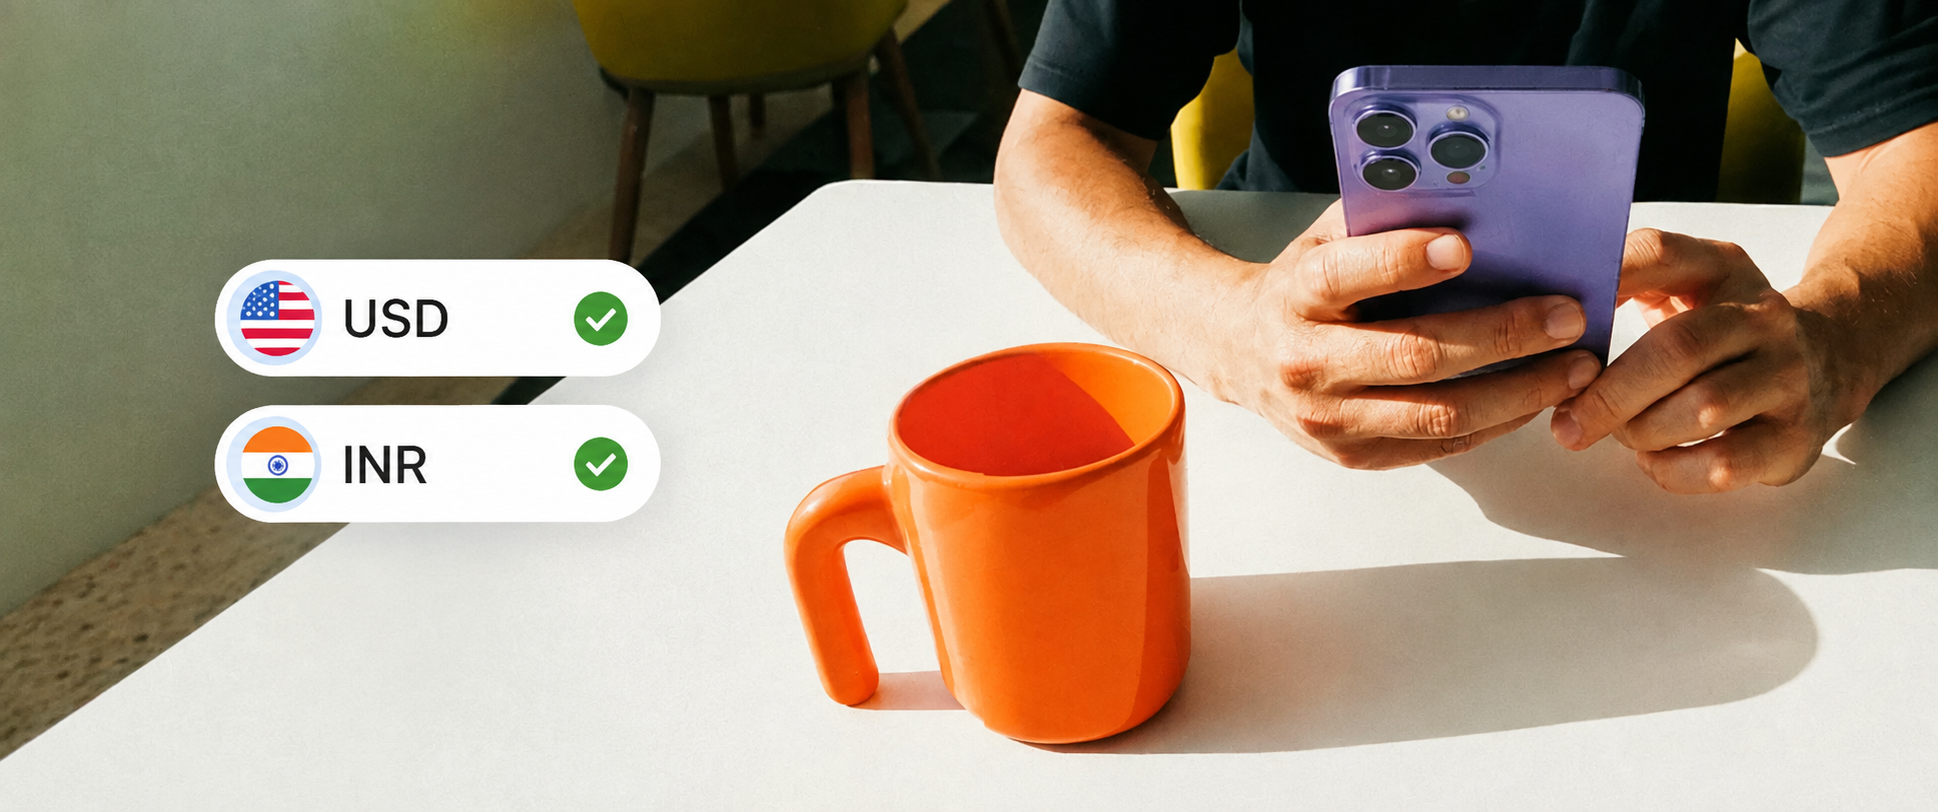
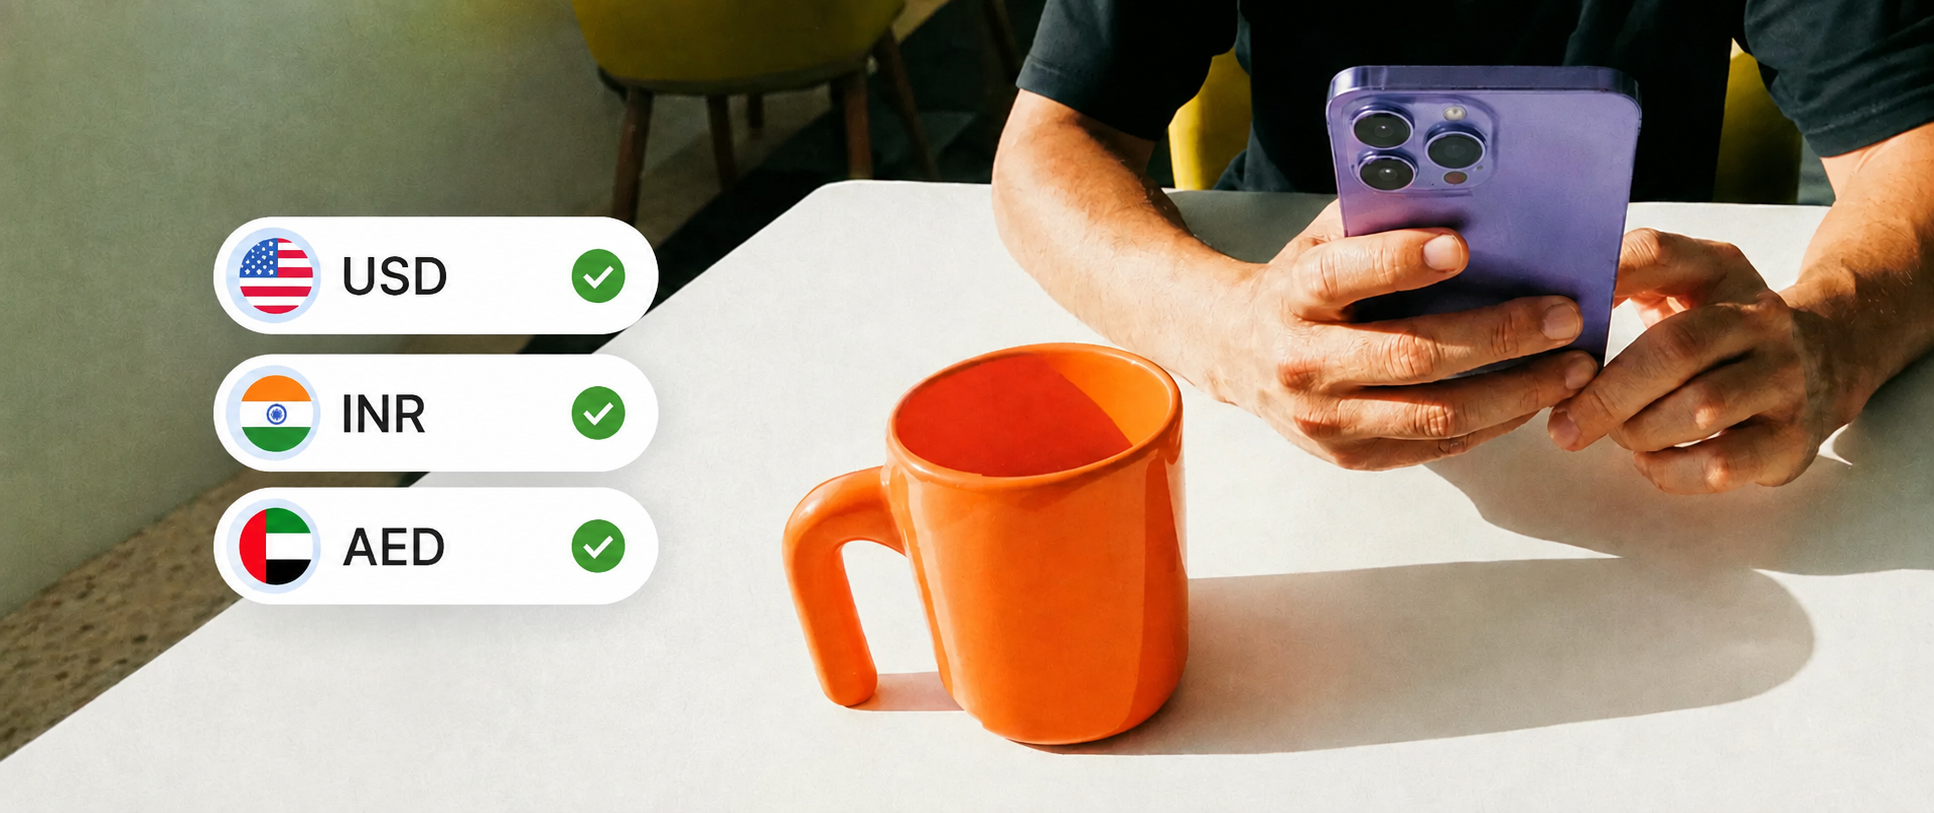
pricing page structure fix completion without responsiveness and content change

Changed region(s): [[0.0931, 0.2463, 0.3413, 0.7697]]

diff --git a/Client/src/landing_deel/components/Header.jsx b/Client/src/landing_deel/components/Header.jsx
@@ -3,6 +3,8 @@ import React, { useEffect, useRef, useState } from "react";
 const megaMenus = {
   Solutions: {
     featured: true,
+    disableOfferLinks: true,
+    disableUtilityLinks: true,
     offerTitle: "WHAT WE OFFER",
     offerItems: [
       {
@@ -173,6 +175,7 @@ const megaMenus = {
     columns: [
       {
         title: "BY BUSINESS SIZE",
+        disableLinks: true,
         items: [
           {
             label: "Startups",
@@ -193,6 +196,7 @@ const megaMenus = {
       },
       {
         title: "BY TEAMS",
+        disableLinks: true,
         items: [
           {
             label: "HR teams",
@@ -223,6 +227,7 @@ const megaMenus = {
       },
       {
         title: "BY INDUSTRY",
+        disableLinks: true,
         items: [
           { label: "Crypto", href: "/industry/crypto/" },
           { label: "Fintech", href: "/industry/fintech/" },
@@ -236,6 +241,7 @@ const megaMenus = {
       },
       {
         title: "PARTNERS",
+        disableLinks: true,
         items: [
           { label: "Venture Capital", href: "/partner/venture-capital/" },
           { label: "Private Equity", href: "/partner/private-equity/" },
@@ -260,6 +266,7 @@ const megaMenus = {
     columns: [
       {
         title: "LEARN & CONNECT",
+        disableLinks: true,
         items: [
           { label: "Blog", href: "/blog/" },
           { label: "Dechub-Bridge Resource Hub", href: "/resource-hub/" },
@@ -682,6 +689,7 @@ function Header() {
                                   key={item.href}
                                   href={item.href}
                                   className="deel-solutions-menu__footer-link"
+                                  style={item.label === "Help center" ? { display: "none" } : undefined}
                                   onClick={(event) => handleInternalNavigation(event, item.href)}
                                 >
                                   {item.label}
@@ -759,6 +767,7 @@ function Header() {
                                   key={item.href}
                                   href={item.href}
                                   className="deel-solutions-menu__footer-link"
+                                  style={item.label === "Help center" ? { display: "none" } : undefined}
                                   onClick={(event) => handleInternalNavigation(event, item.href)}
                                 >
                                   {item.label}
@@ -783,43 +792,76 @@ function Header() {
                                 <p className="deel-solutions-menu__eyebrow">{menu.offerTitle}</p>
                                 <div className="deel-solutions-menu__offer-grid">
                                   {menu.offerItems.map((item) => (
-                                    <a
-                                      key={item.href}
-                                      href={item.href}
-                                      className="deel-solutions-menu__offer-link"
-                                      onClick={(event) => handleInternalNavigation(event, item.href)}
-                                    >
-                                      <span className="deel-solutions-menu__icon-box" aria-hidden="true">
-                                        <MenuFeatureIcon kind={item.icon} />
-                                      </span>
-                                      <span className="deel-solutions-menu__copy">
-                                        <span className="deel-solutions-menu__title">{item.label}</span>
-                                        <span className="deel-solutions-menu__text">{item.description}</span>
-                                      </span>
-                                    </a>
+                                    menu.disableOfferLinks ? (
+                                      <div
+                                        key={item.href}
+                                        className="deel-solutions-menu__offer-link deel-solutions-menu__offer-link--static"
+                                      >
+                                        <span className="deel-solutions-menu__icon-box" aria-hidden="true">
+                                          <MenuFeatureIcon kind={item.icon} />
+                                        </span>
+                                        <span className="deel-solutions-menu__copy">
+                                          <span className="deel-solutions-menu__title">{item.label}</span>
+                                          <span className="deel-solutions-menu__text">{item.description}</span>
+                                        </span>
+                                      </div>
+                                    ) : (
+                                      <a
+                                        key={item.href}
+                                        href={item.href}
+                                        className="deel-solutions-menu__offer-link"
+                                        onClick={(event) => handleInternalNavigation(event, item.href)}
+                                      >
+                                        <span className="deel-solutions-menu__icon-box" aria-hidden="true">
+                                          <MenuFeatureIcon kind={item.icon} />
+                                        </span>
+                                        <span className="deel-solutions-menu__copy">
+                                          <span className="deel-solutions-menu__title">{item.label}</span>
+                                          <span className="deel-solutions-menu__text">{item.description}</span>
+                                        </span>
+                                      </a>
+                                    )
                                   ))}
                                 </div>
                               </div>
 
                               <div className="deel-solutions-menu__utility-grid">
                                 {menu.utilityItems.map((item) => (
-                                  <a
-                                    key={item.href}
-                                    href={item.href}
-                                    className="deel-solutions-menu__utility-card"
-                                    onClick={(event) => handleInternalNavigation(event, item.href)}
-                                  >
-                                    <span className="deel-solutions-menu__utility-copy">
-                                      <span className="deel-solutions-menu__utility-title">{item.label}</span>
-                                      <span className="deel-solutions-menu__utility-text">{item.description}</span>
-                                    </span>
-                                    <img
-                                      src={item.image}
-                                      alt={item.label}
-                                      className="deel-solutions-menu__utility-image"
-                                      loading="lazy"
-                                    />
-                                  </a>
+                                  menu.disableUtilityLinks ? (
+                                    <div
+                                      key={item.href}
+                                      className="deel-solutions-menu__utility-card deel-solutions-menu__utility-card--static"
+                                    >
+                                      <span className="deel-solutions-menu__utility-copy">
+                                        <span className="deel-solutions-menu__utility-title">{item.label}</span>
+                                        <span className="deel-solutions-menu__utility-text">{item.description}</span>
+                                      </span>
+                                      <img
+                                        src={item.image}
+                                        alt={item.label}
+                                        className="deel-solutions-menu__utility-image"
+                                        loading="lazy"
+                                      />
+                                    </div>
+                                  ) : (
+                                    <a
+                                      key={item.href}
+                                      href={item.href}
+                                      className="deel-solutions-menu__utility-card"
+                                      onClick={(event) => handleInternalNavigation(event, item.href)}
+                                    >
+                                      <span className="deel-solutions-menu__utility-copy">
+                                        <span className="deel-solutions-menu__utility-title">{item.label}</span>
+                                        <span className="deel-solutions-menu__utility-text">{item.description}</span>
+                                      </span>
+                                      <img
+                                        src={item.image}
+                                        alt={item.label}
+                                        className="deel-solutions-menu__utility-image"
+                                        loading="lazy"
+                                      />
+                                    </a>
+                                  )
                                 ))}
                               </div>
                             </div>
@@ -854,6 +896,7 @@ function Header() {
                                   key={item.href}
                                   href={item.href}
                                   className="deel-solutions-menu__footer-link"
+                                  style={item.label === "Help center" ? { display: "none" } : undefined}
                                   onClick={(event) => handleInternalNavigation(event, item.href)}
                                 >
                                   {item.label}
